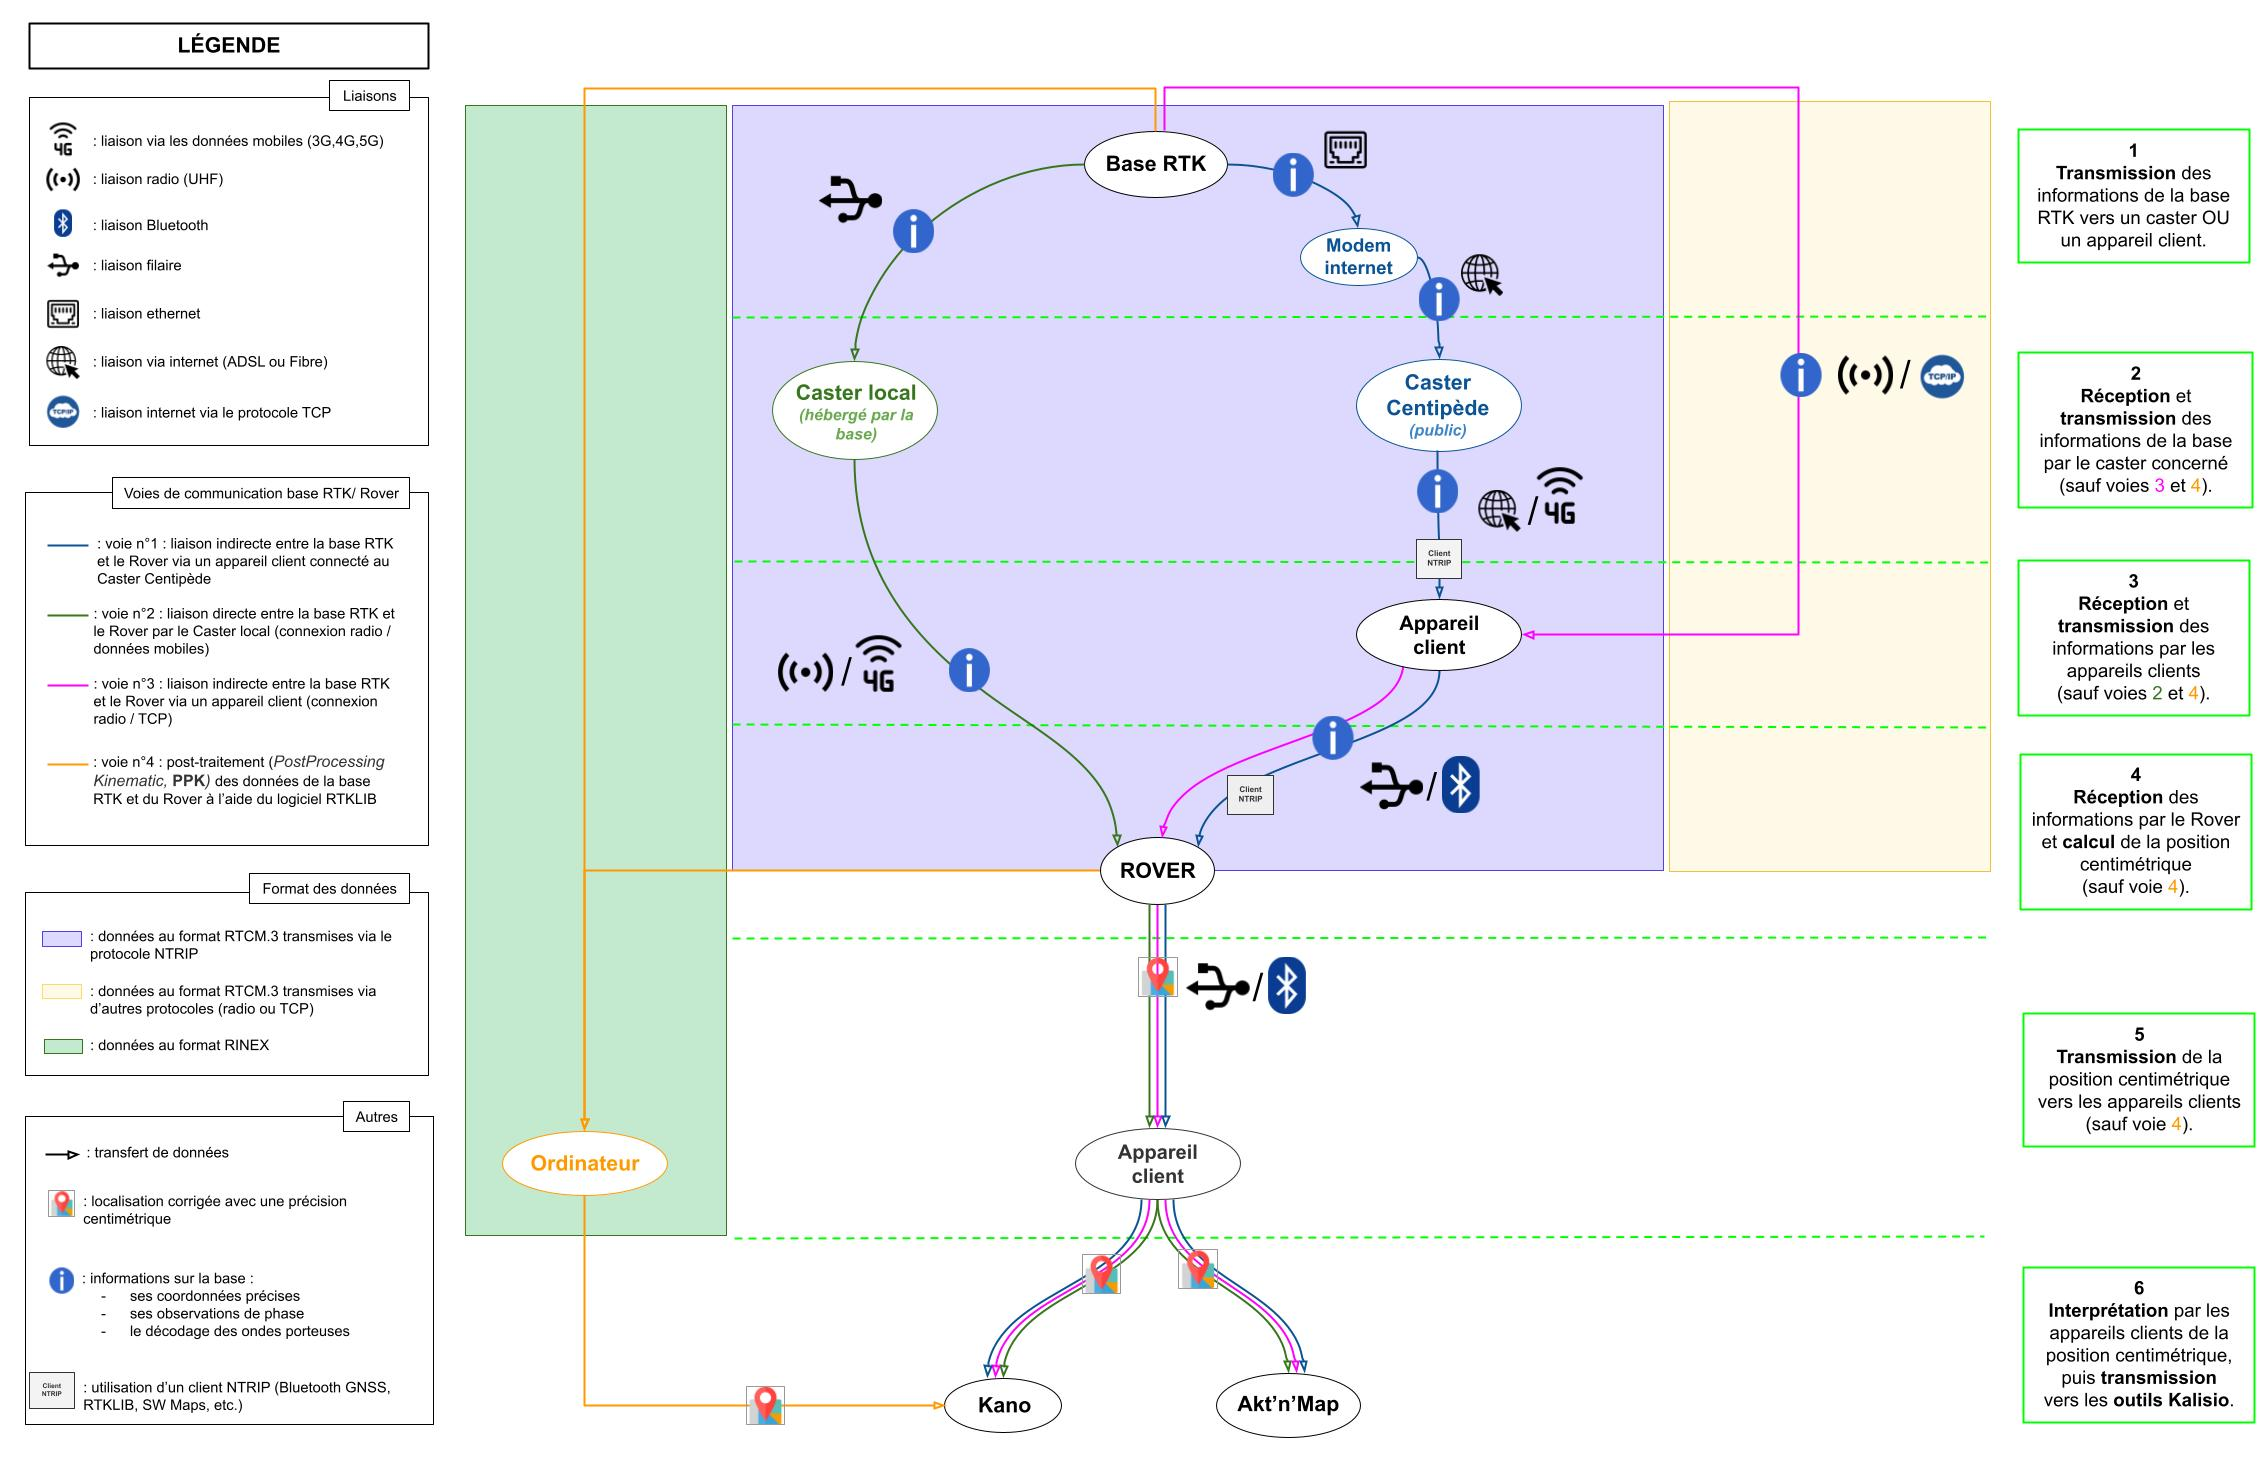
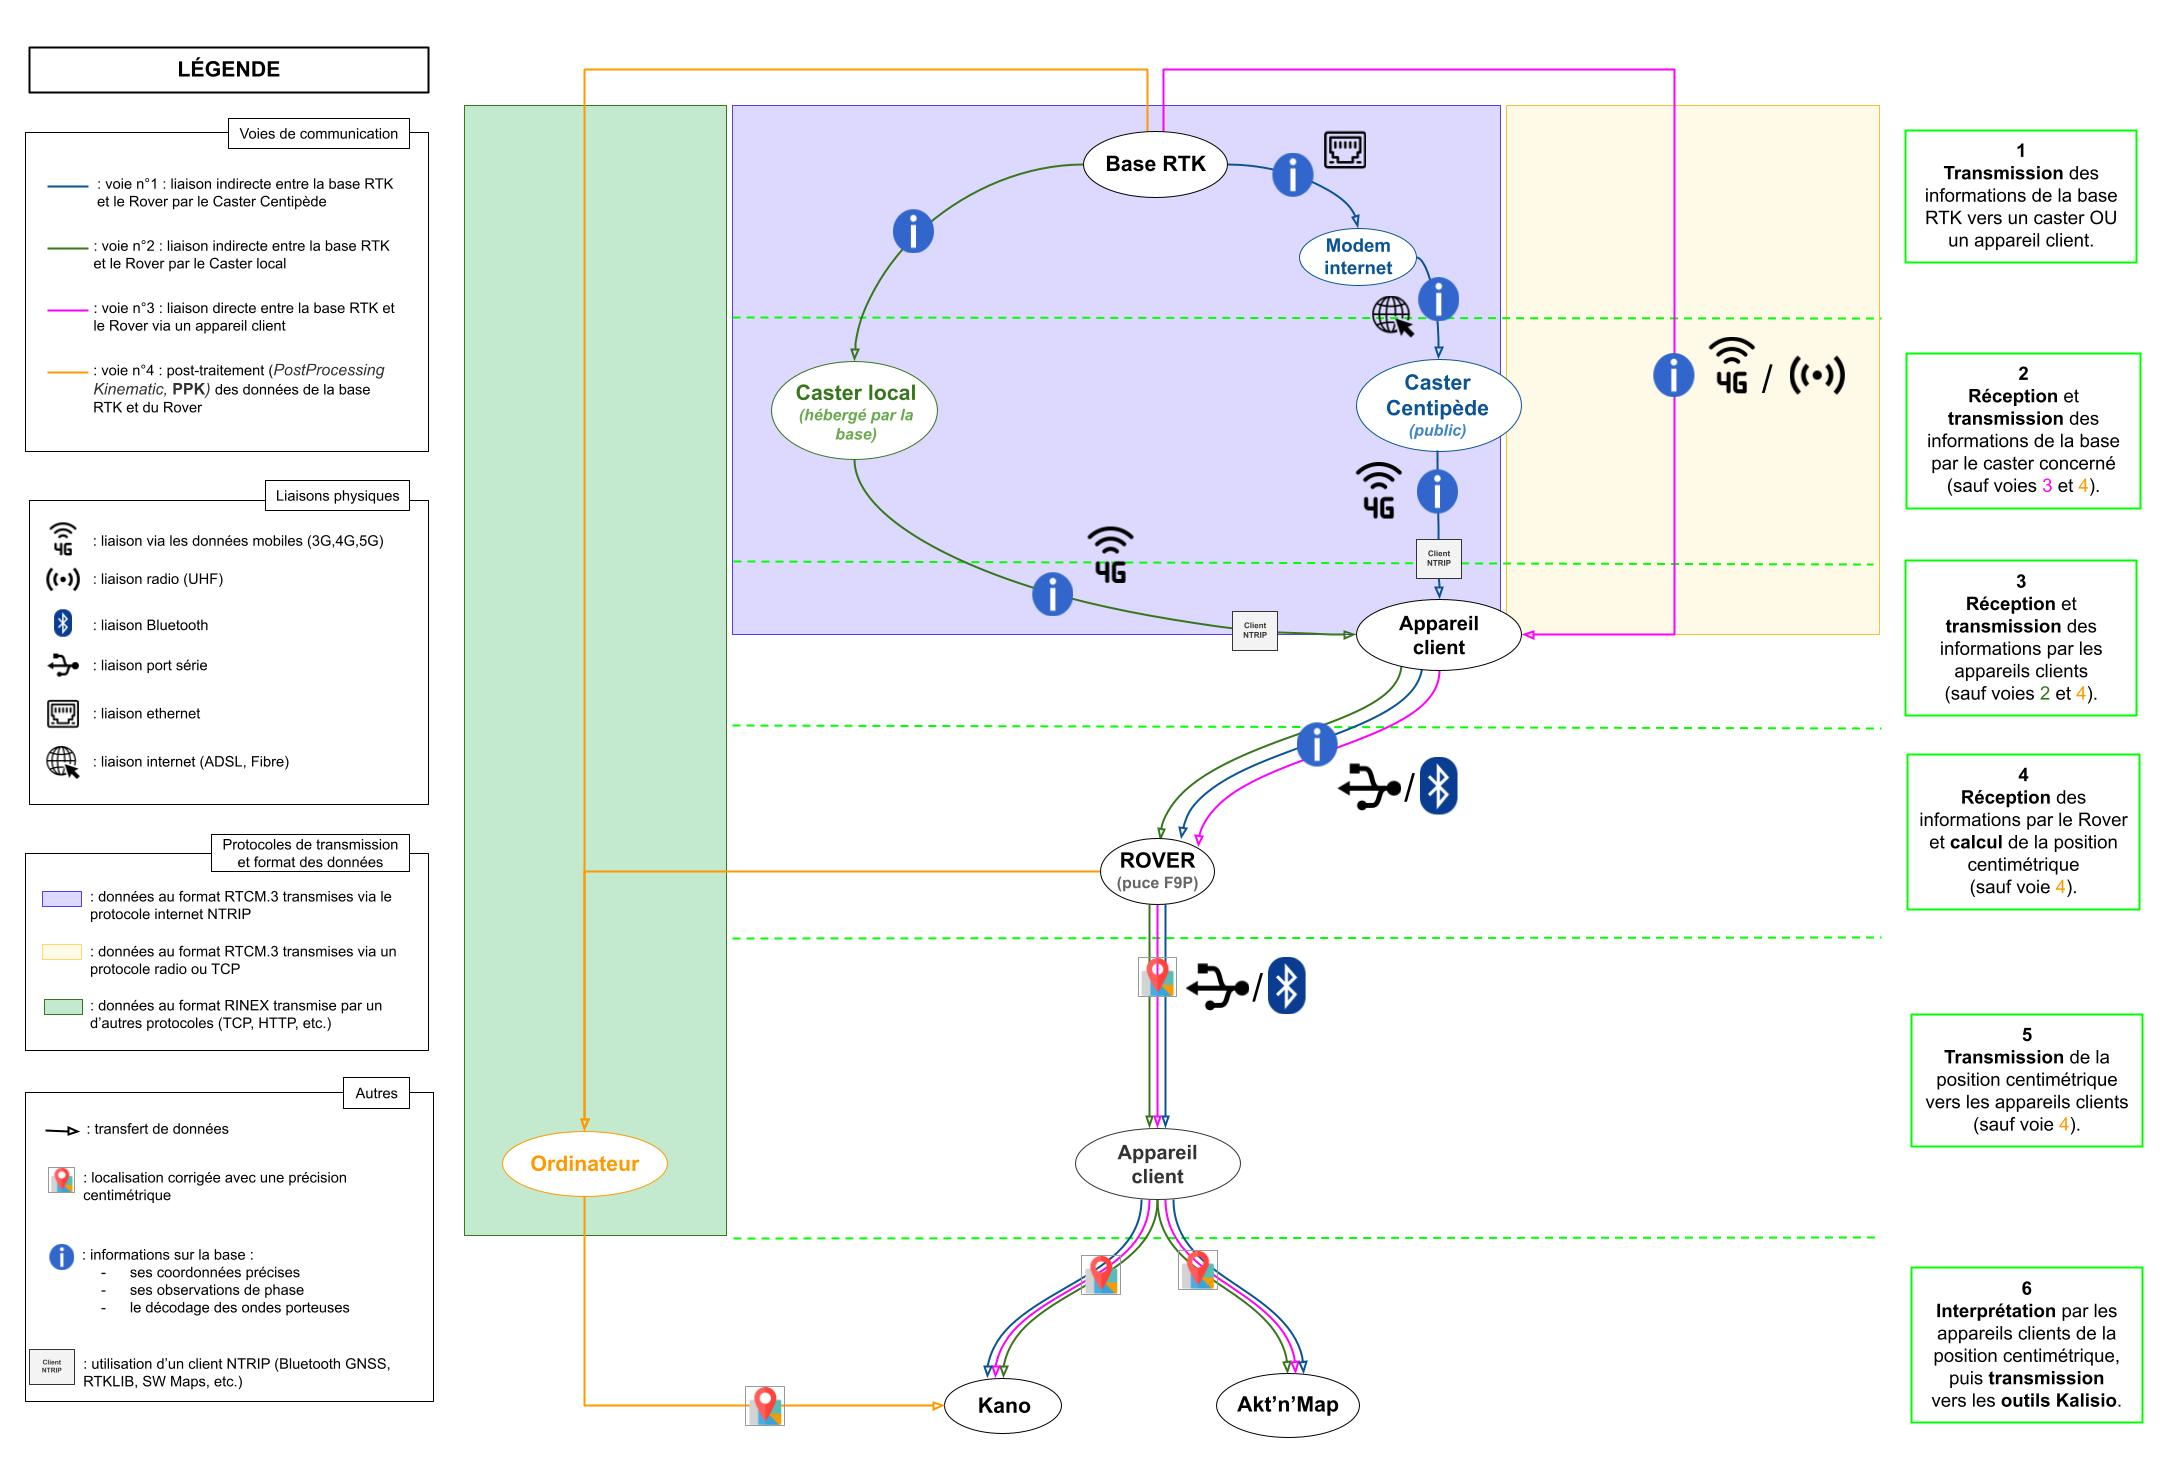
skip JOB Updated docs

diff --git a/docs/.vuepress/config.js b/docs/.vuepress/config.js
@@ -19,10 +19,10 @@ module.exports = {
         {text: 'Applications', link: '/04_aktnmap/bgnss' },
       ],
       sidebar: {
-        '/01_apropos/': getAProposSlidebar(),
-        '/02_fonctionnement/': getFonctionnementSlidebar(),
-        '/04_aktnmap/': getAktnMapSlidebar(),
-        '/03_participer/': getParticiperSlidebar(),
+        '/01_apropos/': getAProposSidebar(),
+        '/02_fonctionnement/': getFonctionnementSidebar(),
+        '/04_aktnmap/': getAktnMapSidebar(),
+        '/03_participer/': getParticiperSidebar(),
       }
     },
     plugins: [
@@ -38,28 +38,29 @@ module.exports = {
     ]
   }
   
-  function getAProposSlidebar(){
+  function getAProposSidebar(){
     return [
       'introduction',
       'histoire',
     ] 
   }
 
-  function getFonctionnementSlidebar(){
+  function getFonctionnementSidebar(){
     return [
       'theorie',
       'terrain',
+      'reseau',
     ]
   }
   
-  function getAktnMapSlidebar(){
+  function getAktnMapSidebar(){
     return [
       'bgnss',
       'tuto',
     ]
   }
 
-  function getParticiperSlidebar(){
+  function getParticiperSidebar(){
     return [
       'base',
       'rover',

diff --git a/docs/01_apropos/histoire.md b/docs/01_apropos/histoire.md
@@ -1,0 +1,33 @@
+---
+sidebarDepth: 3
+---
+# Un peu d'histoire...
+## Définition
+> “La Cinématique temps réel (Real Time Kinematic, en anglais ou RTK) est une technique de positionnement par satellite basée sur l'utilisation de mesures de la phase des ondes porteuses des signaux émis par les systèmes GPS, GLONASS ou Galileo. Une station de référence fournit des corrections en temps réel permettant d'atteindre une précision de l'ordre du centimètre” ([Wikipédia, 2023](https://fr.wikipedia.org/wiki/Cin%C3%A9matique_temps_r%C3%A9el)).
+
+## Une technologie d’avenir
+Les potentielles utilisations du réseau RTK au niveau professionnel sont nombreuses et se multiplient avec l’avènement de la robotique. Aujourd’hui, ses principaux domaines d’action sont :
+- La construction
+- L’agriculture de précision (gestion des agroéquipements connectés). Pour près de 60% des utilisateurs, le réseau Centipède RTK sert à des fins agricoles.
+- Les relevés de terrain (topographie, etc.)
+
+A l’avenir, la précision centimétrique proposée par la technologie RTK sera certainement convoitée par d’autres domaines professionnels, notamment l’aéronautique ou l’automobile.
+
+## Une technologie privatisée 
+Le Réseau RTK n’est pas une nouveauté. Il fait ses premiers pas sur le territoire français peu après 2010, alors qu’il équipait des engins agricoles depuis les années 2000 dans les Pays-Bas.
+
+La technologie est de suite exploitée par des entreprises privées (John Deer, Orpheon, etc.), qui vendent à leurs clients leur service de traitement de données menant à la précision centimétrique. Cette technologie a cependant un prix : 500 à 1000€/an d’abonnement par appareil de réception sans compter les frais d’installation. 
+
+Faire appel à des entreprises privées pour profiter de la technologie RTK représente donc un investissement important.
+
+## Le projet Centipède
+> “Centipède RTK est un réseau collaboratif de bases GNSS ouvertes et disponibles pour toute personne se trouvant dans la zone de couverture. Le réseau est étendu par des instituts publics, des particuliers, des acteurs privés comme les agriculteurs ou d’autres partenaires publics.
+L’objectif du projet est d’offrir une couverture complète du territoire métropolitain.” ([INRAE, 2023](https://docs.centipede.fr/)).
+
+L’objectif du projet Centipède RTK est de rendre accessible à tous la technologie RTK à moindre coût. Ont alors été développés :
+- Des kits d’installation de bases RTK (400 à 500€);
+- Une documentation pour comprendre et utiliser le réseau RTK sur ses appareils;
+- Des plateformes d’interprétation et de visualisation des signaux RTK (RTKGPS+, RTKLIB);
+- Un serveur public de collecte et de transmission des données géographiques des bases RTK.
+
+Tous ces outils sont **open-source**. Ils sont la clé du succès du projet Centipède RTK, qui compte aujourd’hui plus de 350 bases sur le territoire. 

diff --git a/docs/01_apropos/introduction.md b/docs/01_apropos/introduction.md
@@ -1,0 +1,12 @@
+# Introduction
+Lancé en 2019 par l’INRAE, le réseau collaboratif Centipède RTK est un outil stratégique de développement cartographique pour les institutions publiques et les entreprises. 
+
+Il offre la possibilité aux particuliers comme aux professionnels de profiter d’une **précision centimétrique** à moindre coût, à condition de posséder les équipements nécessaires à l’interprétation des signaux RTK.
+
+En intégrant le projet régional Kassandre, l’entreprise Kalisio s’est engagée au  développement du réseau Centipède RTK à l’échelle nationale. L’objectif pour Kalisio est double :
+- Comprendre le fonctionnement du réseau Centipède RTK ;
+- Exploiter la position centimétrique offerte par la technologie RTK au travers de ses outils technologiques (Kano et Akt’n’map).
+
+Ce site vous aidera à comprendre les enjeux du réseau Centipède RTK, son fonctionnement et les opportunités qu’il représente pour l’entreprise Kalisio.
+
+<kano token="eyJhbGciOiJIUzI1NiIsInR5cCI6IkpXVCJ9.eyJhdWQiOiJkZXYua2FsaXNpby54eXoiLCJpc3MiOiJrYWxpc2lvIn0.2oFJhEv306tbkZfzM1tTfFPFjjs5nVu3DWjo5OvGrFc" />

diff --git a/docs/02_Fonctionnement/terrain.md b/docs/02_Fonctionnement/terrain.md
@@ -98,12 +98,3 @@ Cette dernière voie de communication est particulière car elle ne calcule pas 
 Son fonctionnement est simple : une fois la collecte des données effectuée, il faut les extraire de la base et du rover. Pour la base, vous utiliserez la plateforme RTKbase qui lui est propre.
 
 Ensuite, il vous faut convertir ces fichiers au format RINEX, et les traiter à l’aide du logiciel open-source RTKLIB. Toutes les étapes de la procédures sont expliquées ici, sur le site du [projet Centipède](https://docs.centipede.fr/docs/ppk/).
-
-## L’organisation du réseau Centipède RTK
-
-<img src="../assets/schema_reseau_RTK.jpg" 
-        alt="Impossible de visualiser le contenu" 
-        style="display: block; margin: 0 auto" />
-
-***<center> Schéma récapitulatif de l’organisation du réseau Centipède RTK </center>***
-*Sont visibles les appareils structurants, leurs voies de communication, les formats des données, les protocoles de communication utilisés et les étapes pour atteindre le positionnement centimétrique*

diff --git a/docs/02_Fonctionnement/reseau.md b/docs/02_Fonctionnement/reseau.md
@@ -1,0 +1,8 @@
+# L’organisation du réseau
+
+<img src="../assets/schema_reseau_RTK.jpg" 
+        alt="Impossible de visualiser le contenu" 
+        style="display: block; margin: 0 auto" />
+
+***<center> Schéma récapitulatif de l’organisation du réseau Centipède RTK </center>***
+*Sont visibles les appareils structurants, leurs voies de communication, les formats des données, les protocoles de communication utilisés et les étapes pour atteindre le positionnement centimétrique*
